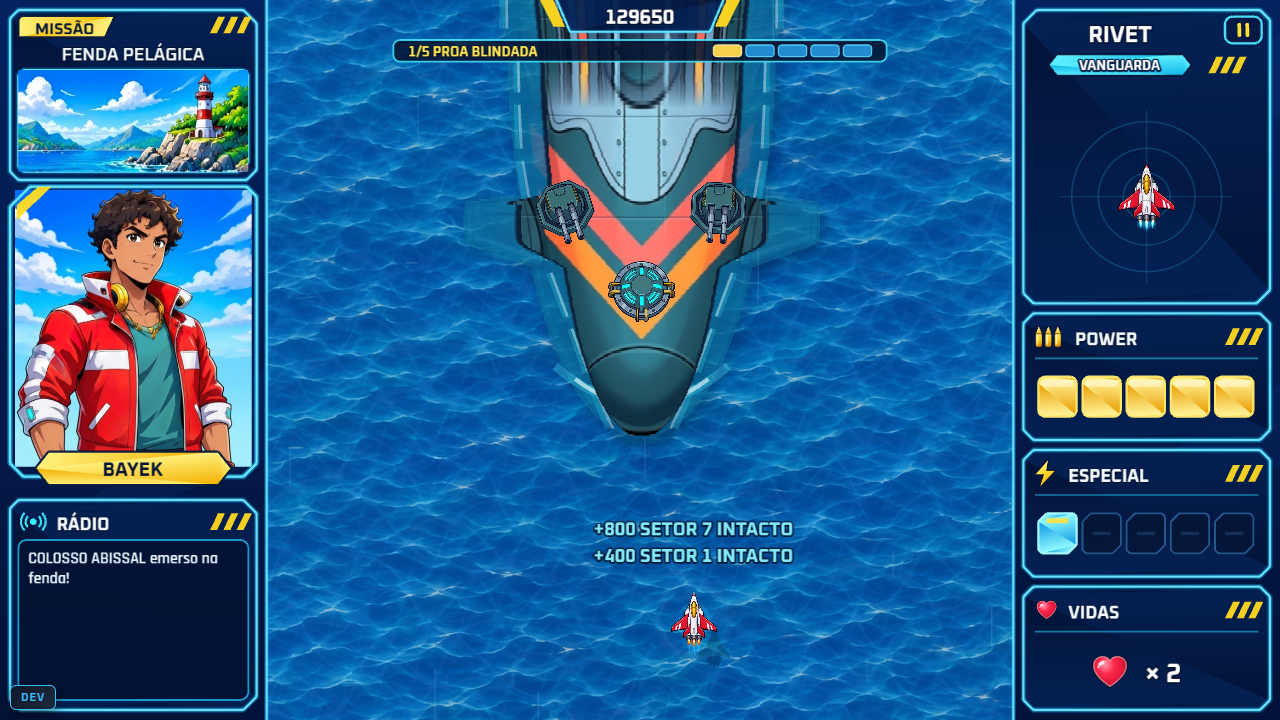
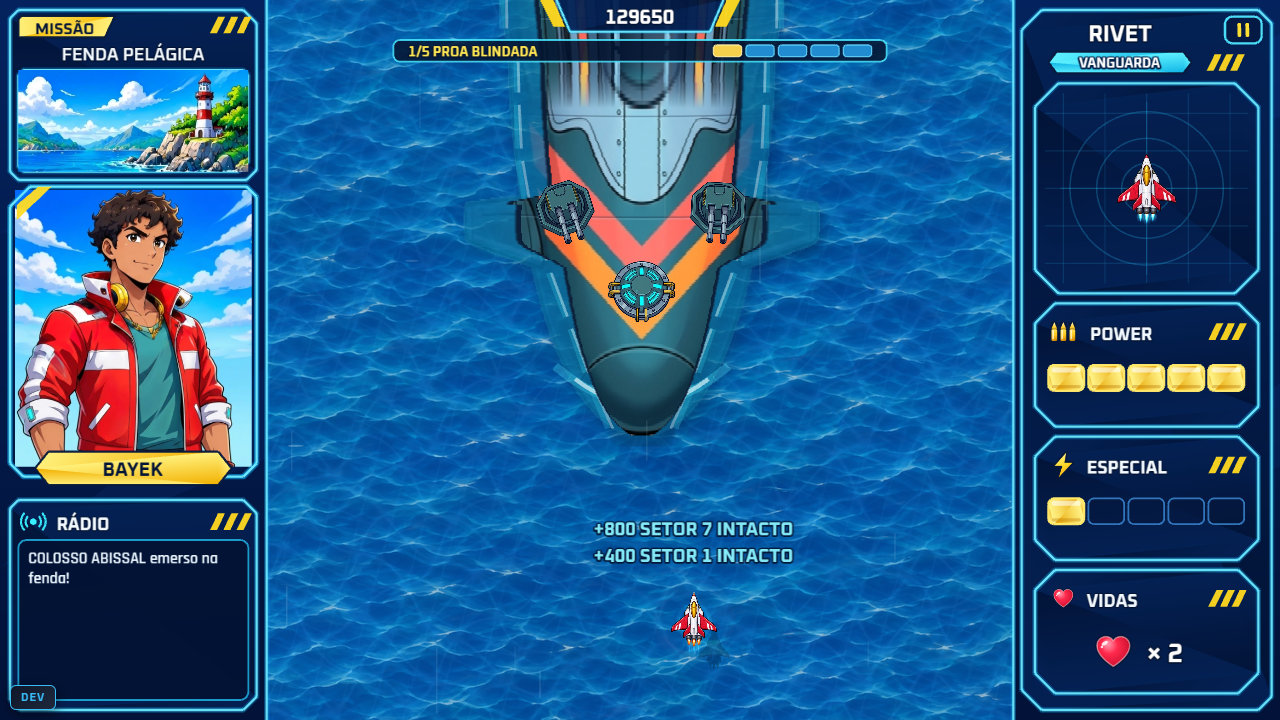
fix(hud): match POWER and ESPECIAL rounded-rectangle gauges and octagonal right cards

diff --git a/src/game/arcade/PelagicDesktopHud.ts b/src/game/arcade/PelagicDesktopHud.ts
@@ -301,15 +301,15 @@ export class PelagicDesktopHud {
 
         // Top-down gameplay RIVET sprite (neutral column 3 of PELAGIC_RIVET_SHEET, 1:1 ratio, centered inside radar)
         this.rivetSprite = scene.add
-            .sprite(688, 118, PELAGIC_RIVET_SHEET, 3)
-            .setDisplaySize(46, 46)
+            .sprite(688, 113, PELAGIC_RIVET_SHEET, 3)
+            .setDisplaySize(48, 48)
             .setDepth(43)
             .setVisible(false);
 
-        this.ammoIcon = scene.add.image(629, 202, ICON_AMMO).setDisplaySize(20, 16).setDepth(43).setVisible(false);
-        this.specialIcon = scene.add.image(627, 284, ICON_SPECIAL).setDisplaySize(16, 18).setDepth(43).setVisible(false);
-        this.heartMiniIcon = scene.add.image(628, 366, ICON_HEART).setDisplaySize(14, 13).setDepth(43).setVisible(false);
-        this.heartMainIcon = scene.add.image(666, 403, ICON_HEART).setDisplaySize(24, 22).setDepth(43).setVisible(false);
+        this.ammoIcon = scene.add.image(638, 199, ICON_AMMO).setDisplaySize(19, 15).setDepth(43).setVisible(false);
+        this.specialIcon = scene.add.image(638, 279, ICON_SPECIAL).setDisplaySize(15, 17).setDepth(43).setVisible(false);
+        this.heartMiniIcon = scene.add.image(638, 359, ICON_HEART).setDisplaySize(14, 13).setDepth(43).setVisible(false);
+        this.heartMainIcon = scene.add.image(668, 391, ICON_HEART).setDisplaySize(24, 22).setDepth(43).setVisible(false);
 
         // Typography hierarchy: balanced bold/600 weights, dark ink on bright badges, zero heavy black blur
         this.missionBadgeText = mkText(39, 16, 'MISSÃO', 9.5, '#051536', { weight: 'bold' });
@@ -333,16 +333,16 @@ export class PelagicDesktopHud {
 
         this.scoreValue = mkText(384, 9.5, '0', 12, '#ffffff', { weight: 'bold', strokeThickness: 1.5, depth: 46 });
 
-        this.rivetNameText = mkText(672, 20, 'RIVET', 13.5, '#ffffff', { weight: 'bold', strokeThickness: 1.8 });
-        this.vanguardaText = mkText(672, 39, 'VANGUARDA', 8, '#ffffff', {
+        this.rivetNameText = mkText(672, 19.5, 'RIVET', 13.5, '#ffffff', { weight: 'bold', strokeThickness: 1.8 });
+        this.vanguardaText = mkText(672, 37.5, 'VANGUARDA', 8, '#ffffff', {
             weight: 'bold',
             stroke: '#04224a',
             strokeThickness: 2.2,
         });
-        this.powerHeaderText = mkText(644, 202, 'POWER', 10.5, '#f2f9ff', { ox: 0, weight: 'bold', strokeThickness: 1.4 });
-        this.especialHeaderText = mkText(640, 284, 'ESPECIAL', 10.5, '#f2f9ff', { ox: 0, weight: 'bold', strokeThickness: 1.4 });
-        this.vidasHeaderText = mkText(640, 366, 'VIDAS', 10.5, '#f2f9ff', { ox: 0, weight: 'bold', strokeThickness: 1.4 });
-        this.vidasMultiplierText = mkText(686, 403, '× 3', 15.5, '#ffffff', { ox: 0, weight: 'bold', strokeThickness: 1.8 });
+        this.powerHeaderText = mkText(653, 199, 'POWER', 10.5, '#f2f9ff', { ox: 0, weight: 'bold', strokeThickness: 1.4 });
+        this.especialHeaderText = mkText(651, 279, 'ESPECIAL', 10.5, '#f2f9ff', { ox: 0, weight: 'bold', strokeThickness: 1.4 });
+        this.vidasHeaderText = mkText(651, 359, 'VIDAS', 10.5, '#f2f9ff', { ox: 0, weight: 'bold', strokeThickness: 1.4 });
+        this.vidasMultiplierText = mkText(687, 391, '× 3', 15.5, '#ffffff', { ox: 0, weight: 'bold', strokeThickness: 1.8 });
 
         this.allNodes = [
             this.sideBg,
@@ -451,32 +451,33 @@ export class PelagicDesktopHud {
         g.fillStyle(0x021233, 0.92).fillRoundedRect(11, 324, 138, 96, 5);
         g.lineStyle(1.1, 0x26ceff, 0.72).strokeRoundedRect(11, 324, 138, 96, 5);
 
-        // 4. RIGHT PANEL CARDS (X = 614..762)
-        // A. RIVET / VANGUARDA + Radar Grid
-        drawCard(g, 614, 6, 148, 176, 8, 6, 8, 6);
-        drawChamferRibbon(g, 672, 39, 86, 13, 'cyan', 5);
-        drawSlashes(g, [725, 732, 739], 34, 44);
-        // Radar reticle inside RIVET showcase
-        g.lineStyle(0.9, 0x28c8ff, 0.22);
-        for (const r of [45, 29, 14]) g.strokeCircle(688, 118, r);
-        g.lineStyle(0.8, 0x28c8ff, 0.16)
-            .lineBetween(636, 118, 740, 118)
-            .lineBetween(688, 66, 688, 170);
+        // 4. RIGHT PANEL OUTER SHELL + INNER CHAMFERED OCTAGONAL CARDS (matching approved layout!)
+        drawCard(g, 613, 6, 150, 420, 12, 8, 8, 12);
+        drawChamferRibbon(g, 672, 37.5, 86, 13, 'cyan', 5);
+        drawSlashes(g, [724, 731, 738], 32.5, 42.5);
 
-        // B. POWER
-        drawCard(g, 614, 188, 148, 76, 6, 6, 6, 6);
-        drawSlashes(g, [735, 742, 749], 197, 207);
-        g.lineStyle(1, 0x26ceff, 0.55).lineBetween(621, 215, 755, 215);
+        // A. RIVET Radar Showcase (large chamfered octagon + grid & concentric circles)
+        drawCard(g, 621, 50, 134, 126, 14, 14, 14, 14);
+        g.lineStyle(0.7, 0x28c8ff, 0.14);
+        for (let gx = 638; gx <= 738; gx += 25) g.lineBetween(gx, 56, gx, 170);
+        for (let gy = 68; gy <= 158; gy += 22.5) g.lineBetween(627, gy, 749, gy);
+        g.lineStyle(0.9, 0x28c8ff, 0.24);
+        for (const r of [46, 30, 15]) g.strokeCircle(688, 113, r);
+        g.lineStyle(0.8, 0x28c8ff, 0.2)
+            .lineBetween(636, 113, 740, 113)
+            .lineBetween(688, 61, 688, 165);
 
-        // C. ESPECIAL
-        drawCard(g, 614, 270, 148, 76, 6, 6, 6, 6);
-        drawSlashes(g, [735, 742, 749], 279, 289);
-        g.lineStyle(1, 0x26ceff, 0.55).lineBetween(621, 297, 755, 297);
+        // B. POWER Card (chamfered octagon, NO inner divider line)
+        drawCard(g, 621, 182, 134, 74, 12, 12, 12, 12);
+        drawSlashes(g, [725, 732, 739], 194, 204);
 
-        // D. VIDAS
-        drawCard(g, 614, 352, 148, 74, 6, 6, 6, 6);
-        drawSlashes(g, [735, 742, 749], 361, 371);
-        g.lineStyle(1, 0x26ceff, 0.55).lineBetween(621, 379, 755, 379);
+        // C. ESPECIAL Card (chamfered octagon, NO inner divider line)
+        drawCard(g, 621, 262, 134, 74, 12, 12, 12, 12);
+        drawSlashes(g, [725, 732, 739], 274, 284);
+
+        // D. VIDAS Card (chamfered octagon, NO inner divider line)
+        drawCard(g, 621, 342, 134, 74, 12, 12, 12, 12);
+        drawSlashes(g, [725, 732, 739], 354, 364);
     }
 
     draw(
@@ -600,48 +601,29 @@ export class PelagicDesktopHud {
         const g = this.slotsGfx;
         g.clear();
 
-        // 1. POWER: 5 warm golden weapon level blocks inside [623..752, y=226..250]
-        for (let i = 0; i < 5; i++) {
-            const x = 623 + i * 26.5;
-            const y = 226;
-            const w = 23;
-            const h = 24;
-            const active = i < world.weapons.weaponLevel;
-            if (active) {
-                g.fillGradientStyle(0xfff49a, 0xfff49a, 0xe89c00, 0xe89c00, 1).fillRoundedRect(x, y, w, h, 4);
-                g.fillStyle(0xffffff, 0.45).fillRoundedRect(x + 2, y + 2, w - 4, 4, 2);
-                g.lineStyle(1.3, 0xffe86b, 0.98).strokeRoundedRect(x, y, w, h, 4);
-            } else {
-                g.fillStyle(0x05183f, 0.88).fillRoundedRect(x, y, w, h, 4);
-                g.lineStyle(1.1, 0x3574b0, 0.78).strokeRoundedRect(x, y, w, h, 4);
+        // Shared horizontal rounded-rectangle gauge renderer for both POWER & ESPECIAL
+        const drawGaugeRow = (rowY: number, count: number) => {
+            const w = 21.5;
+            const h = 15.5;
+            for (let i = 0; i < 5; i++) {
+                const x = 629 + i * 24;
+                if (i < count) {
+                    g.fillGradientStyle(0xfff48a, 0xfff48a, 0xe8a400, 0xe8a400, 1).fillRoundedRect(x, rowY, w, h, 3.5);
+                    g.fillStyle(0xffffff, 0.58).fillRoundedRect(x + 2, rowY + 1.5, w - 4, 3, 1.5);
+                    g.fillStyle(0xb87200, 0.35).fillRoundedRect(x + 2, rowY + h - 3.5, w - 4, 2, 1);
+                    g.lineStyle(1.3, 0xffe86b, 0.98).strokeRoundedRect(x, rowY, w, h, 3.5);
+                } else {
+                    g.fillStyle(0x04173c, 0.52).fillRoundedRect(x, rowY, w, h, 3.5);
+                    g.lineStyle(1.1, 0x3b86d1, 0.84).strokeRoundedRect(x, rowY, w, h, 3.5);
+                }
             }
-        }
+        };
 
-        // 2. ESPECIAL: 5 chamfered electric-cyan energy cells with amber charge accent (distinct from POWER!)
-        for (let i = 0; i < 5; i++) {
-            const x = 623 + i * 26.5;
-            const y = 308;
-            const w = 23;
-            const h = 24;
-            const active = i < world.weapons.specialCharges;
-            if (active) {
-                g.fillGradientStyle(0x8ffbff, 0x8ffbff, 0x0b96e6, 0x0b96e6, 1);
-                chamferPath(g, x, y, w, h, 5, 2, 5, 2);
-                g.fillPath();
-                g.fillStyle(0xffe042, 0.92).fillRect(x + 5, y + 3, w - 10, 3);
-                g.lineStyle(1.3, 0xa8f9ff, 0.98);
-                chamferPath(g, x, y, w, h, 5, 2, 5, 2);
-                g.strokePath();
-            } else {
-                g.fillStyle(0x041536, 0.88);
-                chamferPath(g, x, y, w, h, 5, 2, 5, 2);
-                g.fillPath();
-                g.fillStyle(0x235285, 0.45).fillRect(x + 6, y + 11, w - 12, 2);
-                g.lineStyle(1.1, 0x2e6ba3, 0.76);
-                chamferPath(g, x, y, w, h, 5, 2, 5, 2);
-                g.strokePath();
-            }
-        }
+        // 1. POWER: 5 horizontal rounded rectangles inside [621..755, y=219..234.5]
+        drawGaugeRow(219, world.weapons.weaponLevel);
+
+        // 2. ESPECIAL: identical horizontal rounded rectangles inside [621..755, y=299..314.5]
+        drawGaugeRow(299, world.weapons.specialCharges);
 
         // 3. Boss HP compact bar tucked below central Placar ONLY during boss fight
         if (world.boss?.sub && world.boss.sub.phase !== 'done') {
